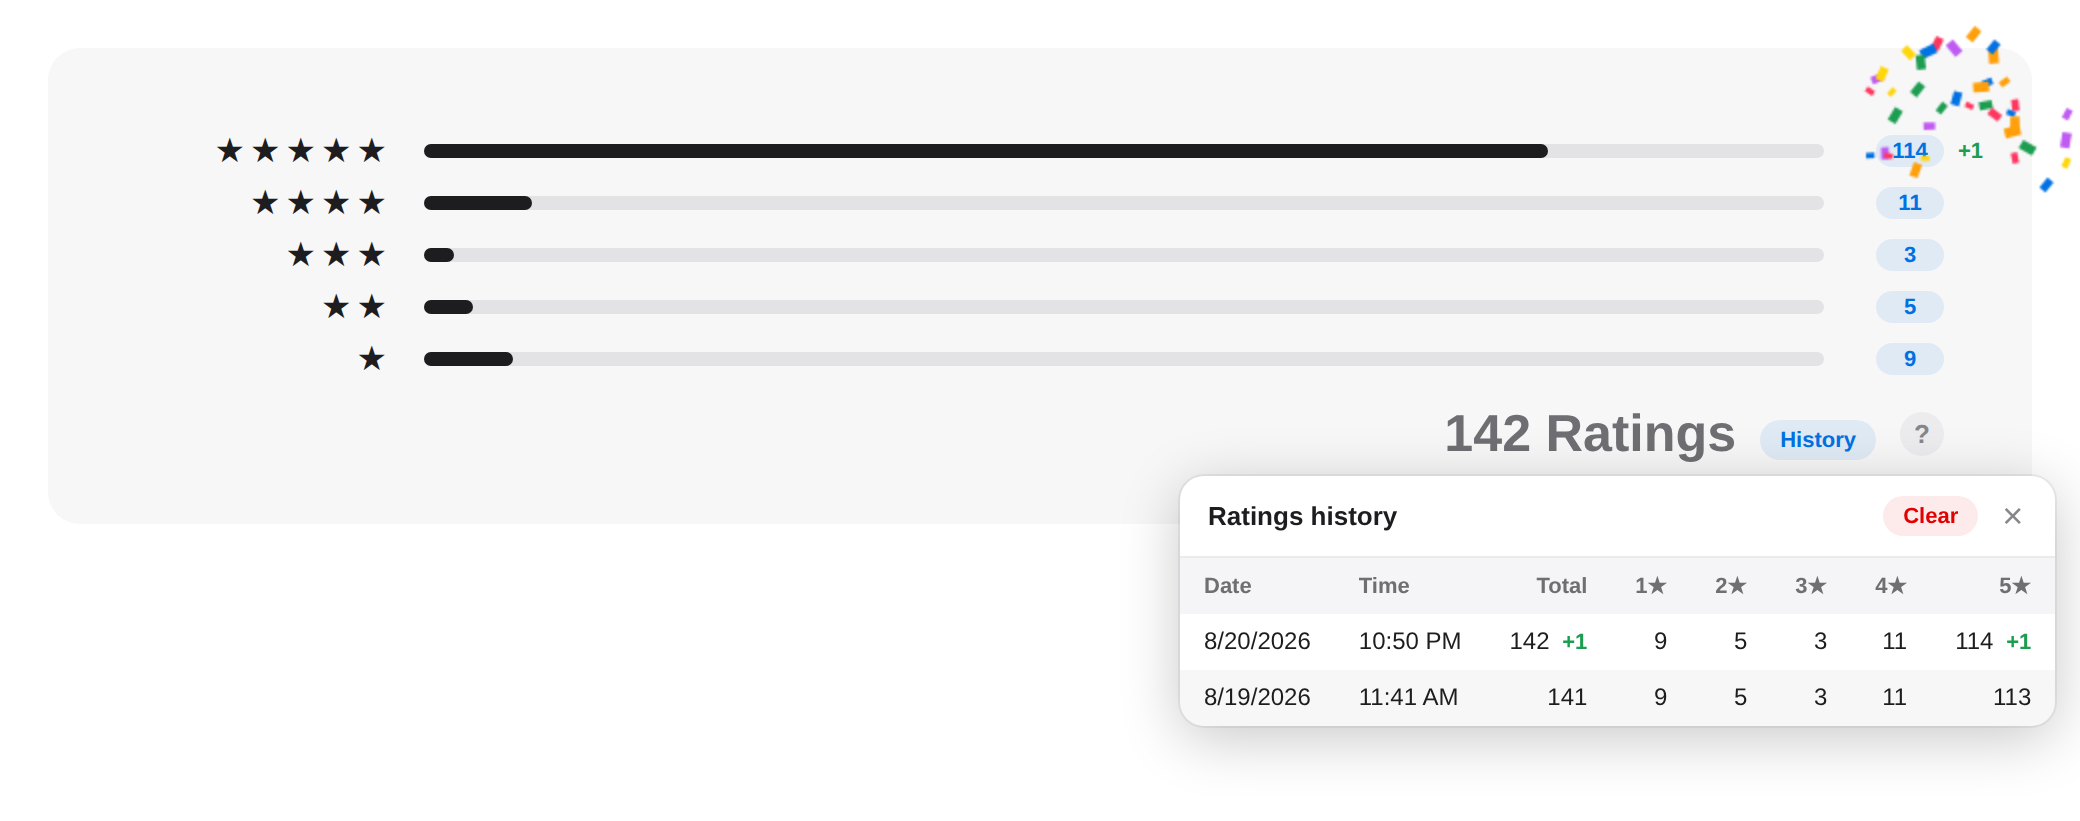
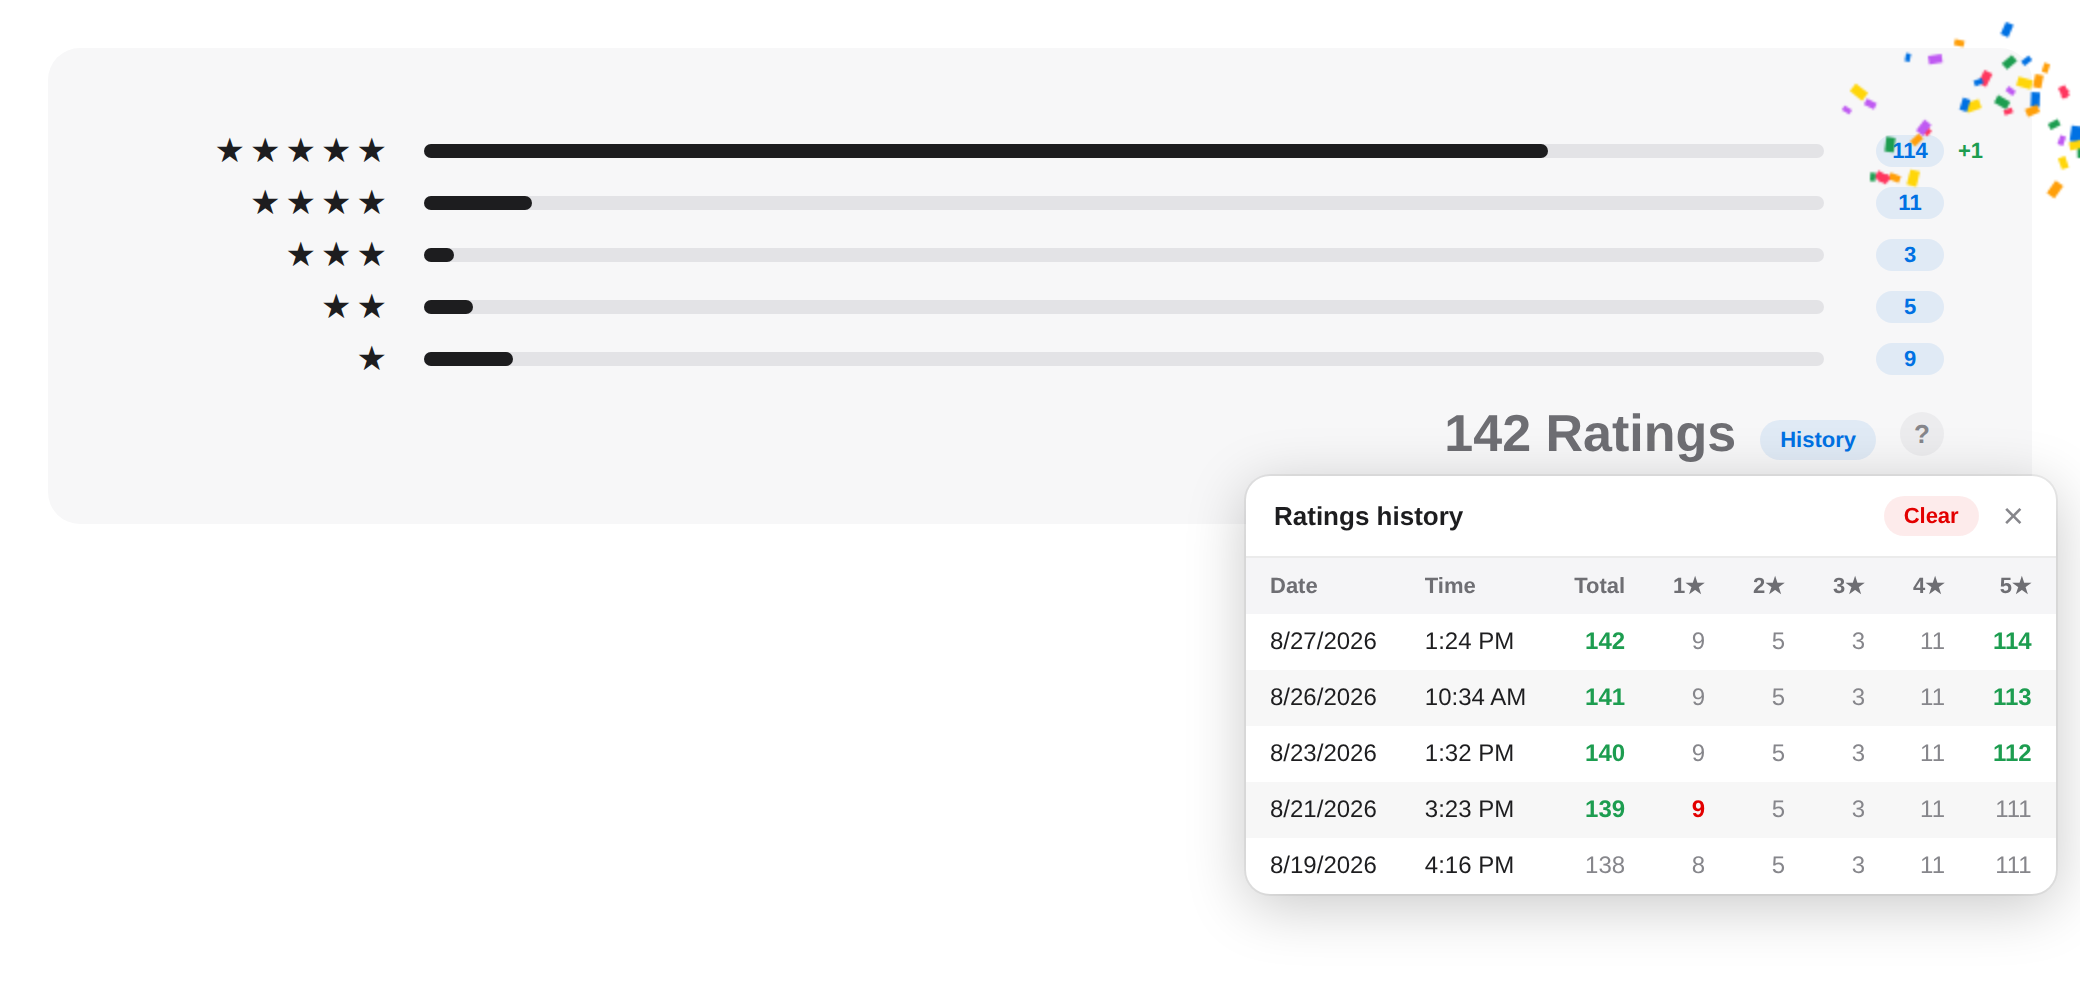
Colour deltas by good/bad news; simplify the history table
A +1 now means different things per row, so colour follows the news
rather than the sign: gaining 1- or 2-star ratings is red, gaining
anything else (or losing 1-stars) is green. Confetti follows the same
split — paper for a new 5-star, raining sad emoji for a new 1- or
2-star, spawned above the badge so they do not cover it.

The history table drops the inline +x chips. Every number renders
grey; the ones that changed from the row below go bold green or red, so
what moved reads at a glance. The exact delta moves to the cell title.

Screenshots regenerated; README table now covers all four states.

Claude-Session: https://claude.ai/code/session_0198RV6kGNQSvjuSHWhmQyko

diff --git a/src/modules/review-counter.js b/src/modules/review-counter.js
@@ -209,12 +209,16 @@
   }
 
   // --- confetti --------------------------------------------------------------
-  // A little celebration when a "+" shows up. Purely decorative: any failure
+  // A burst when the star counts move: paper confetti for a new 5-star,
+  // raining sad emoji for a new 1- or 2-star. Purely decorative: any failure
   // (no canvas, no rAF, reduced-motion preference) silently skips it.
 
   let confetti = null; // { canvas, ctx, parts, raf }
 
-  function celebrate(origins) {
+  const HAPPY_COLORS = ['#0071e3', '#1d9d50', '#ff9f0a', '#ff375f', '#bf5af2', '#ffd60a'];
+  const SAD_GLYPHS = ['\u{1F622}', '\u{1F62D}', '\u{1F614}', '\u{1F494}'];
+
+  function burst(origins, mood) {
     try {
       if (!origins.length || typeof requestAnimationFrame !== 'function') return;
       if (
@@ -234,24 +238,32 @@
         document.body.appendChild(canvas);
         confetti = { canvas, ctx, parts: [], raf: null };
       }
-      const colors = ['#0071e3', '#1d9d50', '#ff9f0a', '#ff375f', '#bf5af2', '#ffd60a'];
+      const sad = mood === 'sad';
       for (const el of origins) {
         const r = el.getBoundingClientRect();
         const cx = r.left + r.width / 2;
-        const cy = r.top + r.height / 2;
-        for (let i = 0; i < 40; i++) {
-          const angle = -Math.PI / 2 + (Math.random() - 0.5) * Math.PI * 1.3;
-          const speed = 3.5 + Math.random() * 7;
+        // Sad emoji are big enough to hide the badge they spawn from, so
+        // start them above it and let them rain down past.
+        const cy = sad ? r.top - 14 : r.top + r.height / 2;
+        // Sad emoji dribble out and fall; happy paper shoots up and scatters.
+        const count = sad ? 14 : 40;
+        for (let i = 0; i < count; i++) {
+          const angle = sad
+            ? -Math.PI / 2 + (Math.random() - 0.5) * Math.PI * 0.8
+            : -Math.PI / 2 + (Math.random() - 0.5) * Math.PI * 1.3;
+          const speed = sad ? 1 + Math.random() * 2.5 : 3.5 + Math.random() * 7;
           confetti.parts.push({
             x: cx,
             y: cy,
             vx: Math.cos(angle) * speed,
             vy: Math.sin(angle) * speed,
-            size: 4 + Math.random() * 4,
-            color: colors[i % colors.length],
-            rot: Math.random() * Math.PI,
-            vr: (Math.random() - 0.5) * 0.4,
-            life: 60 + Math.random() * 40,
+            size: sad ? 16 + Math.random() * 8 : 4 + Math.random() * 4,
+            glyph: sad ? SAD_GLYPHS[i % SAD_GLYPHS.length] : null,
+            color: HAPPY_COLORS[i % HAPPY_COLORS.length],
+            rot: sad ? (Math.random() - 0.5) * 0.5 : Math.random() * Math.PI,
+            vr: sad ? (Math.random() - 0.5) * 0.08 : (Math.random() - 0.5) * 0.4,
+            gravity: sad ? 0.09 : 0.18,
+            life: sad ? 90 + Math.random() * 50 : 60 + Math.random() * 40,
           });
         }
       }
@@ -269,7 +281,7 @@
     for (const p of c.parts) {
       p.x += p.vx;
       p.y += p.vy;
-      p.vy += 0.18;
+      p.vy += p.gravity;
       p.vx *= 0.99;
       p.rot += p.vr;
       p.life--;
@@ -277,11 +289,18 @@
       ctx.globalAlpha = Math.max(0, Math.min(1, p.life / 25));
       ctx.translate(p.x, p.y);
       ctx.rotate(p.rot);
-      ctx.fillStyle = p.color;
-      ctx.fillRect(-p.size / 2, -p.size / 2, p.size, p.size * 0.62);
+      if (p.glyph) {
+        ctx.font = p.size + 'px -apple-system, "Apple Color Emoji", "Segoe UI Emoji", sans-serif';
+        ctx.textAlign = 'center';
+        ctx.textBaseline = 'middle';
+        ctx.fillText(p.glyph, 0, 0);
+      } else {
+        ctx.fillStyle = p.color;
+        ctx.fillRect(-p.size / 2, -p.size / 2, p.size, p.size * 0.62);
+      }
       ctx.restore();
     }
-    c.parts = c.parts.filter((p) => p.life > 0 && p.y < canvas.height + 20);
+    c.parts = c.parts.filter((p) => p.life > 0 && p.y < canvas.height + 30);
     if (c.parts.length) {
       c.raf = requestAnimationFrame(confettiTick);
     } else {
@@ -294,6 +313,15 @@
 
   function fmtDeltaText(d) {
     return (d > 0 ? '+' : '-') + Math.abs(d).toLocaleString();
+  }
+
+  // Is this change good news? More 1- and 2-star ratings is bad; more of
+  // anything else (and a bigger total) is good. Drives colour everywhere:
+  // green for good, red for bad, regardless of the +/- sign.
+  //  stars: 1..5, or 0 for the ratings total.
+  function isGoodChange(stars, delta) {
+    const badWhenUp = stars === 1 || stars === 2;
+    return badWhenUp ? delta < 0 : delta > 0;
   }
 
   function annotateChart(container, key, store, historyEnabled) {
@@ -321,7 +349,8 @@
     }
 
     const deltas = historyEnabled ? sessionDeltas.get(key) || null : null;
-    let fiveStarDeltaEl = null;
+    let happyDeltaEl = null; // a new 5-star
+    let sadDeltaEl = null; // a new 1- or 2-star
 
     rows.forEach((row, i) => {
       const count = counts[i];
@@ -364,16 +393,25 @@
         }
         const txt = fmtDeltaText(delta);
         if (deltaEl.textContent !== txt) deltaEl.textContent = txt;
-        deltaEl.classList.toggle('asc-rc-delta--up', delta > 0);
-        deltaEl.classList.toggle('asc-rc-delta--down', delta < 0);
-        if (row.stars === 5 && delta > 0) fiveStarDeltaEl = deltaEl;
+        // Colour by good/bad news, not by sign: "+1" on a 1-star row is red.
+        const good = isGoodChange(row.stars, delta);
+        deltaEl.classList.toggle('asc-rc-delta--good', good);
+        deltaEl.classList.toggle('asc-rc-delta--bad', !good);
+        if (delta > 0) {
+          if (row.stars === 5) happyDeltaEl = deltaEl;
+          else if (row.stars === 1 || row.stars === 2) sadDeltaEl = deltaEl;
+        }
       } else if (deltaEl) {
         deltaEl.remove();
       }
     });
 
-    // Confetti, but only for the moment a 5-star gain is first detected.
-    if (changedNow && fiveStarDeltaEl) celebrate([fiveStarDeltaEl]);
+    // Only at the moment a change is first detected: paper for a new 5-star,
+    // sad emoji for a new 1- or 2-star. A round that brought both gets both.
+    if (changedNow) {
+      if (happyDeltaEl) burst([happyDeltaEl], 'happy');
+      if (sadDeltaEl) burst([sadDeltaEl], 'sad');
+    }
 
     ensureHistoryButton(totalEl, key, historyEnabled);
     return dirty;
@@ -447,10 +485,14 @@
     })[ch]);
   }
 
-  function deltaCellHtml(d) {
-    if (!d) return '';
-    const cls = d > 0 ? 'asc-rc-delta--up' : 'asc-rc-delta--down';
-    return ' <span class="asc-rc-delta ' + cls + '">' + fmtDeltaText(d) + '</span>';
+  // One number cell. Numbers are grey by default; a number that moved since
+  // the previous snapshot goes bold and green (good) or red (bad). No "+x"
+  // here — the colour is the callout.
+  function numCellHtml(value, delta, stars) {
+    let cls = 'asc-rc-num';
+    if (delta) cls += isGoodChange(stars, delta) ? ' asc-rc-num--good' : ' asc-rc-num--bad';
+    const title = delta ? ' title="' + esc(fmtDeltaText(delta) + ' since the previous row') + '"' : '';
+    return '<td class="' + cls + '"' + title + '>' + value.toLocaleString() + '</td>';
   }
 
   function buildPanel(history, key) {
@@ -473,19 +515,20 @@
       html += '<div class="asc-rc-panel-empty">No snapshots recorded yet.</div>';
     } else {
       let body = '';
-      // Newest first; each row's deltas compare against the row below it
-      // (the chronologically previous snapshot).
+      // Newest first; each row is compared against the row below it (the
+      // chronologically previous snapshot) to decide which numbers moved.
       for (let i = history.length - 1; i >= 0; i--) {
         const row = history[i];
         const prev = history[i - 1] || null;
         const d = new Date(row.t);
         let cells =
-          '<td>' + esc(d.toLocaleDateString()) + '</td>' +
-          '<td>' + esc(d.toLocaleTimeString([], { hour: 'numeric', minute: '2-digit' })) + '</td>' +
-          '<td>' + row.total.toLocaleString() + (prev ? deltaCellHtml(row.total - prev.total) : '') + '</td>';
+          '<td class="asc-rc-when">' + esc(d.toLocaleDateString()) + '</td>' +
+          '<td class="asc-rc-when">' +
+          esc(d.toLocaleTimeString([], { hour: 'numeric', minute: '2-digit' })) +
+          '</td>' +
+          numCellHtml(row.total, prev ? row.total - prev.total : 0, 0);
         for (let s = 0; s < 5; s++) {
-          cells +=
-            '<td>' + row.c[s].toLocaleString() + (prev ? deltaCellHtml(row.c[s] - prev.c[s]) : '') + '</td>';
+          cells += numCellHtml(row.c[s], prev ? row.c[s] - prev.c[s] : 0, s + 1);
         }
         body += '<tr>' + cells + '</tr>';
       }

diff --git a/src/modules/review-counter.css b/src/modules/review-counter.css
@@ -50,11 +50,13 @@
   transform: translateY(-50%);
 }
 
-.asc-rc-delta--up {
+/* Coloured by good/bad news rather than by sign: a "+1" on the 1-star row
+   is red, a "-1" there is green. */
+.asc-rc-delta--good {
   color: #1d9d50;
 }
 
-.asc-rc-delta--down {
+.asc-rc-delta--bad {
   color: #e30000;
 }
 
@@ -191,8 +193,23 @@
   background: rgba(0, 0, 0, 0.03);
 }
 
-.asc-rc-table .asc-rc-delta {
-  margin-left: 3px;
+.asc-rc-table .asc-rc-when {
+  color: #1d1d1f;
+}
+
+/* Numbers read grey until one moves; the mover goes bold and colour-coded. */
+.asc-rc-table .asc-rc-num {
+  color: #86868b;
+}
+
+.asc-rc-table .asc-rc-num--good {
+  color: #1d9d50;
+  font-weight: 700;
+}
+
+.asc-rc-table .asc-rc-num--bad {
+  color: #e30000;
+  font-weight: 700;
 }
 
 /* Tooltip bubble, anchored to the row's right edge above the pill. */

diff --git a/README.md b/README.md
@@ -4,10 +4,13 @@ A tiny Chrome extension that makes App Store Connect a little less annoying. Rig
 
 It's a vibe-coded mess — PRs welcome anyway.
 
-| Exact counts | Change badges | History |
-| --- | --- | --- |
-| ![Per-star count pills](docs/img/counts.png) | ![+1 delta badge](docs/img/deltas.png) | ![History panel](docs/img/history.png) |
-| Apple only shows bars. Each bar gets a pill with the **exact number of ratings** for that star, recovered from the bar's full-precision width and the ratings total. | When a count changed since the last time you looked, a **+x / -x** badge appears next to it for the rest of the session. | The **History** button opens a table of every recorded change — date, time, total, and per-star counts, newest first. **Clear** wipes it. |
+| Exact counts | Good news |
+| --- | --- |
+| ![Per-star count pills](docs/img/counts.png) | ![Green +1 on the 5-star row with confetti](docs/img/deltas.png) |
+| Apple only shows bars. Each bar gets a pill with the **exact number of ratings** for that star, recovered from the bar's full-precision width and the ratings total. | A count that changed since you last looked gets a **+x / -x** badge. A new 5-star is green — and gets confetti. |
+| **Bad news** | **History** |
+| ![Red +1 on the 1-star row with crying emoji](docs/img/sad.png) | ![History panel](docs/img/history.png) |
+| A new 1- or 2-star is **red**, because "+1" there isn't a win. It gets confetti too, just sadder. | The **History** button opens every recorded change. Numbers are grey; the ones that moved are **bold green or red**. **Clear** wipes it. |
 
 ## Install
 
@@ -31,9 +34,11 @@ Details:
 It also **tracks changes over time**:
 
 - Every time you view the chart, the current per-star counts are compared with the last stored snapshot (kept in `chrome.storage.local`, keyed by app id). A new history row is stored **only when a number actually changed** — and only when you actually have the page open; nothing polls in the background.
-- When a change is detected, each changed number gets a green `+x` / red `-x` delta next to its count pill for the rest of the page session. The badge hangs off the right edge of the row, so the bars keep their full width.
-- A new 5-star rating gets confetti. Obviously. (Respects `prefers-reduced-motion`.)
-- A **History** button under the "N Ratings" total opens a panel with a table of every recorded snapshot — date, time, total, and 1–5 star counts, newest first, with per-row deltas against the previous snapshot. History is capped at 500 rows per chart. A **Clear** button in the panel wipes the stored history for that app (with a confirm).
+- When a change is detected, each changed number gets a `+x` / `-x` delta next to its count pill for the rest of the page session. The badge hangs off the right edge of the row, so the bars keep their full width.
+- Colour follows **good/bad news, not the sign**: more 1- or 2-star ratings is red, more of anything else is green (and fewer 1-stars is green).
+- A new 5-star rating gets confetti. A new 1- or 2-star gets sad-emoji confetti instead. (Both respect `prefers-reduced-motion`.)
+- A **History** button under the "N Ratings" total opens a panel with a table of every recorded snapshot — date, time, total, and 1–5 star counts, newest first. Numbers are grey; the ones that changed from the row below are bold and green or red, so you can see at a glance what moved. Hover a highlighted number for the exact `+x`.
+- History is capped at 500 rows per chart. A **Clear** button in the panel wipes the stored history for that app (with a confirm).
 - History only tracks the unfiltered chart: snapshots, deltas, and the History button are active only while the territory picker shows **All Countries or Regions**. Filtered territories still get count pills, but never touch the stored history.
 
 ## Structure
